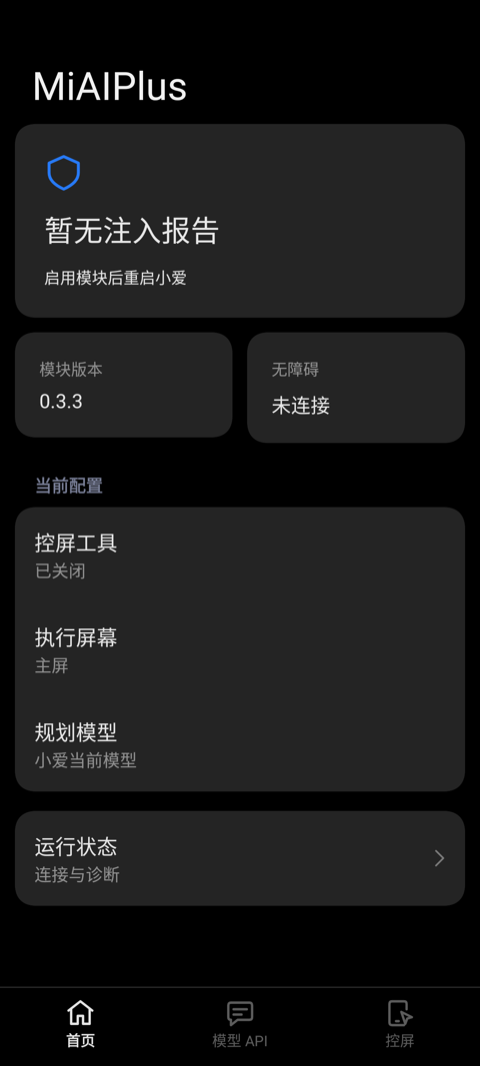
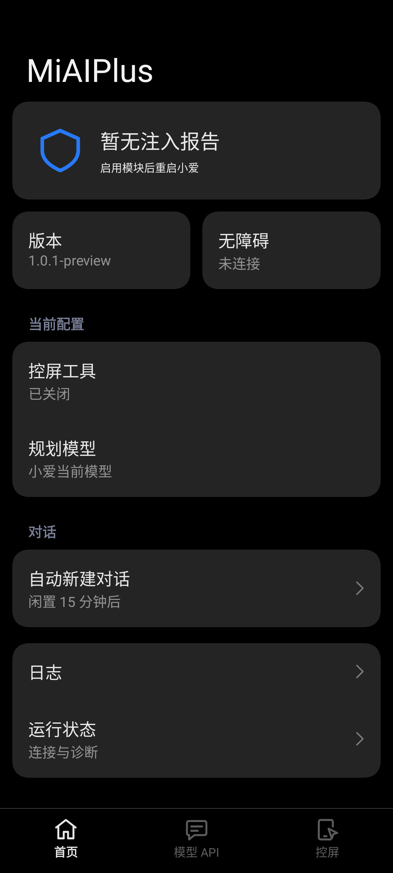
Unify home dashboard typography

diff --git a/app/src/main/java/io/github/miaiplus/MainActivity.kt b/app/src/main/java/io/github/miaiplus/MainActivity.kt
@@ -255,7 +255,8 @@ private fun HomePage(state: SettingsState, openStatus: () -> Unit, openLogs: () 
         }
     }
     Spacer(Modifier.height(12.dp))
-    Row(Modifier.fillMaxWidth().padding(horizontal = 12.dp), horizontalArrangement = Arrangement.spacedBy(12.dp)) {
+    Row(Modifier.fillMaxWidth().height(IntrinsicSize.Min).padding(horizontal = 12.dp),
+        horizontalArrangement = Arrangement.spacedBy(12.dp)) {
         DashboardTile("版本", BuildConfig.VERSION_NAME, Modifier.weight(1f))
         DashboardTile("无障碍", if (state.accessible) "已连接" else "未连接", Modifier.weight(1f))
     }
@@ -295,11 +296,8 @@ private fun HomePage(state: SettingsState, openStatus: () -> Unit, openLogs: () 
 
 @Composable
 private fun DashboardTile(label: String, value: String, modifier: Modifier) {
-    Card(modifier) {
-        Column(Modifier.padding(18.dp), verticalArrangement = Arrangement.spacedBy(6.dp)) {
-            Text(label, style = MiuixTheme.textStyles.footnote2, color = MiuixTheme.colorScheme.onSurfaceVariantSummary)
-            Text(value, style = MiuixTheme.textStyles.body2)
-        }
+    Card(modifier.fillMaxHeight()) {
+        BasicComponent(title = label, summary = value)
     }
 }
 

diff --git a/docs/validation.md b/docs/validation.md
@@ -1,6 +1,6 @@
 # 实现与验证状态
 
-更新日期：2026-10-19。这里汇总当前源码的验证依据与限制；具体操作、失败尝试和恢复情况保留在分阶段记录中。源码、正式发布包和本地测试安装包应分别判断，不能因版本名相同而视为同一构建。
+更新日期：2026-10-28。这里汇总当前源码的验证依据与限制；具体操作、失败尝试和恢复情况保留在分阶段记录中。源码、正式发布包和本地测试安装包应分别判断，不能因版本名相同而视为同一构建。
 
 ## 当前源码与发布基线
 
@@ -12,6 +12,7 @@
 | 当前模块图标 | 矢量资源生成静态预览并核对 | 最新指针调整未编译或安装验证；见 [图标资源](module-icon.md) |
 | 全屏／浮窗自动新建对话修复 | 375 项 JVM／Robolectric 测试，Debug／Release 完整 Lint 与构建、Debug AndroidTest 构建通过；API 37／小爱 8.3.30.4420 的全屏／实际浮窗连续性、四轮超时新建／重开后的原生回复及屏幕正文、通知返回与焦点回归通过 | 回复来自本地 mock，与工具返回专项独立，未验证真实模型工具一体链路；未测实体键／热词、进程重启、多窗口及旧版设备。旧探针局限及本轮实际浮窗身份、唯一正文 OCR 验证见 [会话生命周期修复](validation/conversation-lifecycle-2026-10-19.md) |
 | 模型 API 列表底部空白修复 | 376 项 JVM／Robolectric 测试，Debug／Release 完整 Lint 与构建、Debug AndroidTest 构建通过；深浅色及未保存状态的布局断言与渲染检查 | 本轮未安装或操作手机，未实测系统导航栏与软键盘。见 [底部布局记录](validation/settings-bottom-layout-2026-10-19.md) |
+| 首页概览卡字号与等高布局 | 376 项 JVM／Robolectric 测试，Debug／Release 完整 Lint、Debug／Release／Preview APK 与 Debug AndroidTest 构建通过；API 37 实机覆盖安装后核对首页、配置恢复及无障碍连接 | 深色使用 Robolectric 渲染；未运行控屏、真实模型或宿主 Hook 回归。见 [首页字号记录](validation/settings-home-typography-2026-10-28.md) |
 
 各行按其日期和验证范围独立判断；2026-10-19 会话修复重跑了本地测试、Lint 与构建，并安装测试包完成上述设备专项，未运行 CI。详细日志、日志页及会话修复属于发布基线之后的源码改动，未据此创建新的正式签名发布版本。
 

diff --git a/docs/validation/settings-home-typography-2026-10-28.md b/docs/validation/settings-home-typography-2026-10-28.md
@@ -1,0 +1,18 @@
+# 首页概览卡字号与对齐
+
+2026-10-28，基于 `dc9107a` 的工作树 UI 修改。首页「版本／无障碍」原来采用 11 sp 小标签和 14 sp 数值，与下方设置项的主次关系不同。两卡现复用 Miuix `BasicComponent` 的 17 sp 中等字重标题、14 sp 次要色说明和 16 dp 内边距，并根据本行内容等高。没有修改配置、Hook 或控屏执行逻辑。
+
+## 本地检查
+
+- 最终源码执行 `./gradlew :app:testDebugUnitTest :app:lintDebug :app:assembleDebug :app:lintRelease :app:assembleRelease :app:assembleDebugAndroidTest :app:assemblePreview` 成功。
+- 376 项 JVM／Robolectric 测试通过，无失败或跳过。Debug／Release 完整 Lint 均无错误，分别有 36／26 项警告。
+- 检查现有设置 UI 测试输出的深浅色首页渲染，更新 `docs/images/settings-light.png` 和 `docs/images/settings-dark.png`，使用合成配置。
+- `git diff --check` 通过；构建日志保留在本地忽略目录 `.tools/home-typography-20261028/checks-final.log`。
+
+## 实机安装、恢复与边界
+
+设备为 Xiaomi 25019PNF3C、API 37，1440×3200、560 dpi、字体缩放 1.0。经用户明确授权，在允许不同签名覆盖安装的设备上用 `adb install -r` 安装当前优化 Preview，返回成功。本次收尾直接覆盖安装，不再采用独立 UI 包方案。
+
+恢复阶段发现安装状态中的原配置缺失、模块无障碍服务断开。本地安装前备份完整；恢复原配置、原日志和原应用文件共 49 项后，`config.xml` 的 SHA-256 与安装前完全一致。仅重新启用模块自己的无障碍服务，最终启用服务集合与安装前一致，`accessibility_health` 返回 `connected=true`、`busy=false`、`preparing=false`，重新进入首页显示「已连接」。最终实机截图确认两卡的字号、主次颜色与等高布局。恢复完成后删除本次敏感数据备份、旧 APK 和中间截图，只保留构建日志、最终 UI 截图和无敏感信息的检查摘要。
+
+实机仅检查当前浅色首页；深色由 Robolectric 覆盖。没有改变系统字体、主题或密度，没有触发模型请求、虚拟屏探测或重启小爱；未重做 Hook、root 授权、控屏链路或放大字体的设备验收。首页绿色状态卡仍是原有历史注入报告，不是本轮 Hook 验证。测试包不是新的正式发布版本。
